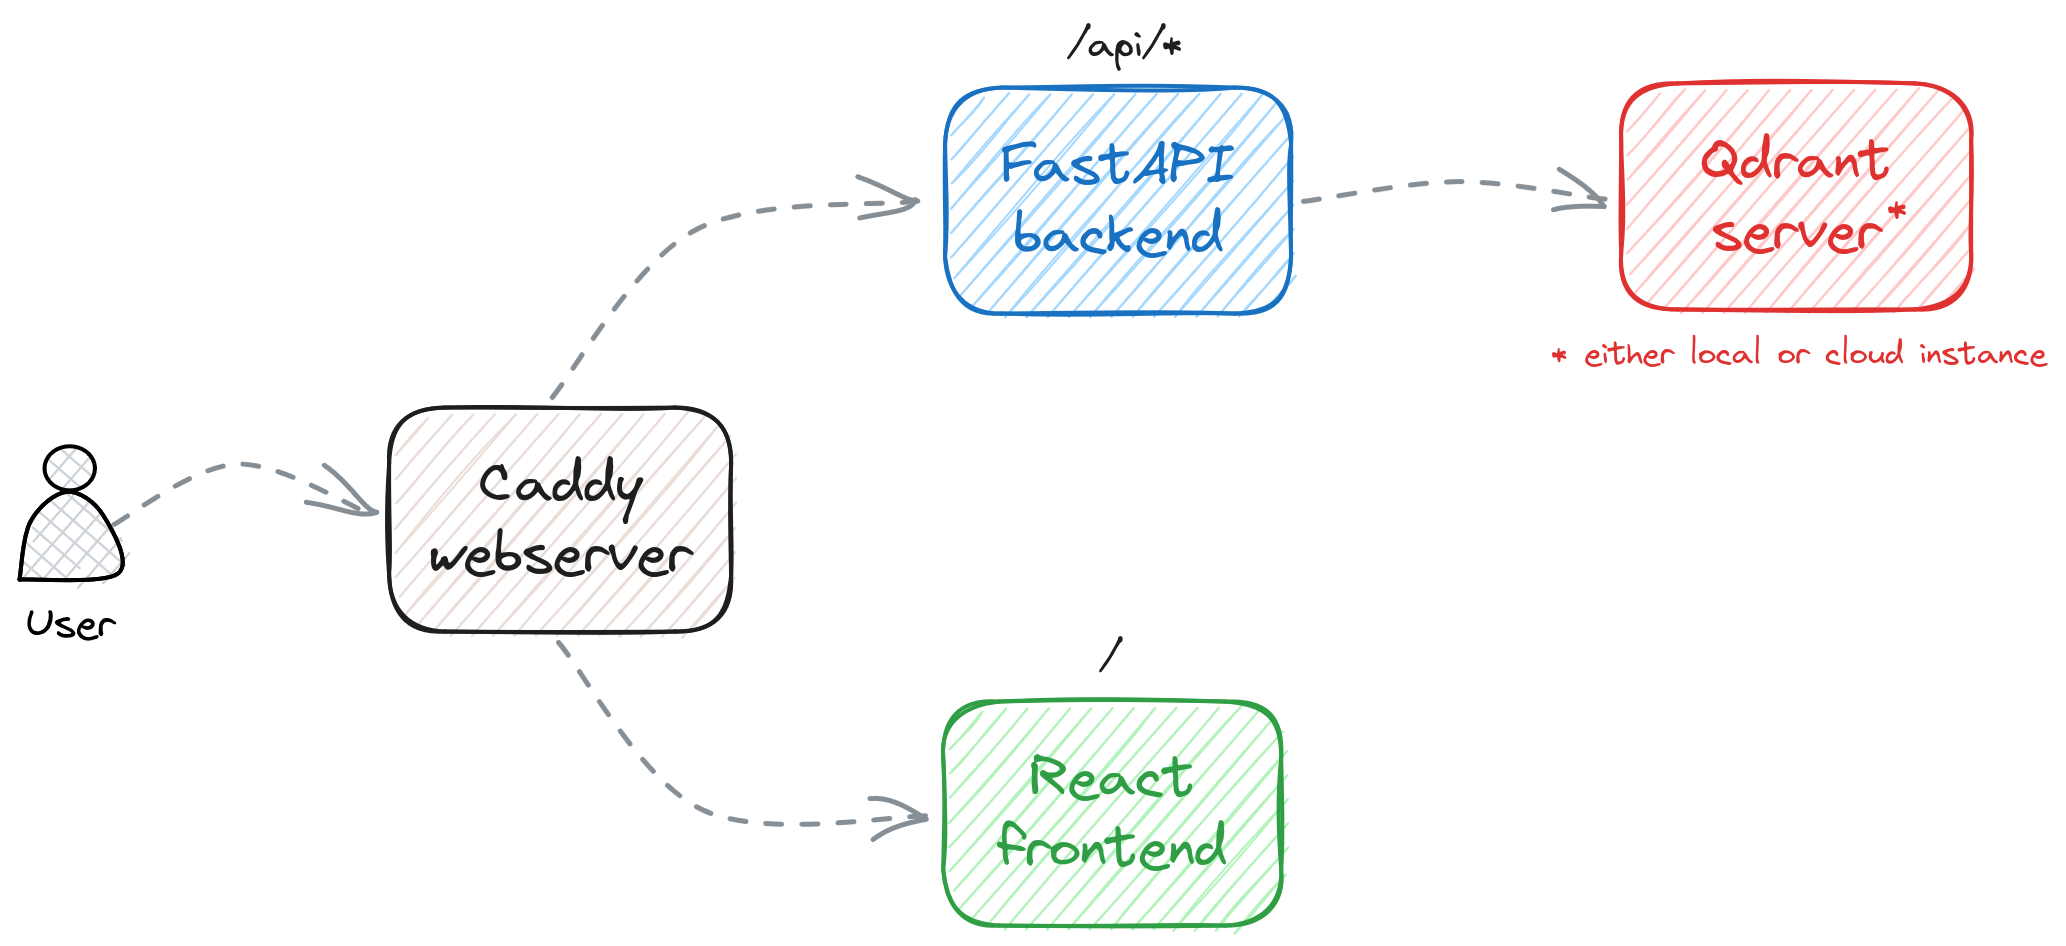
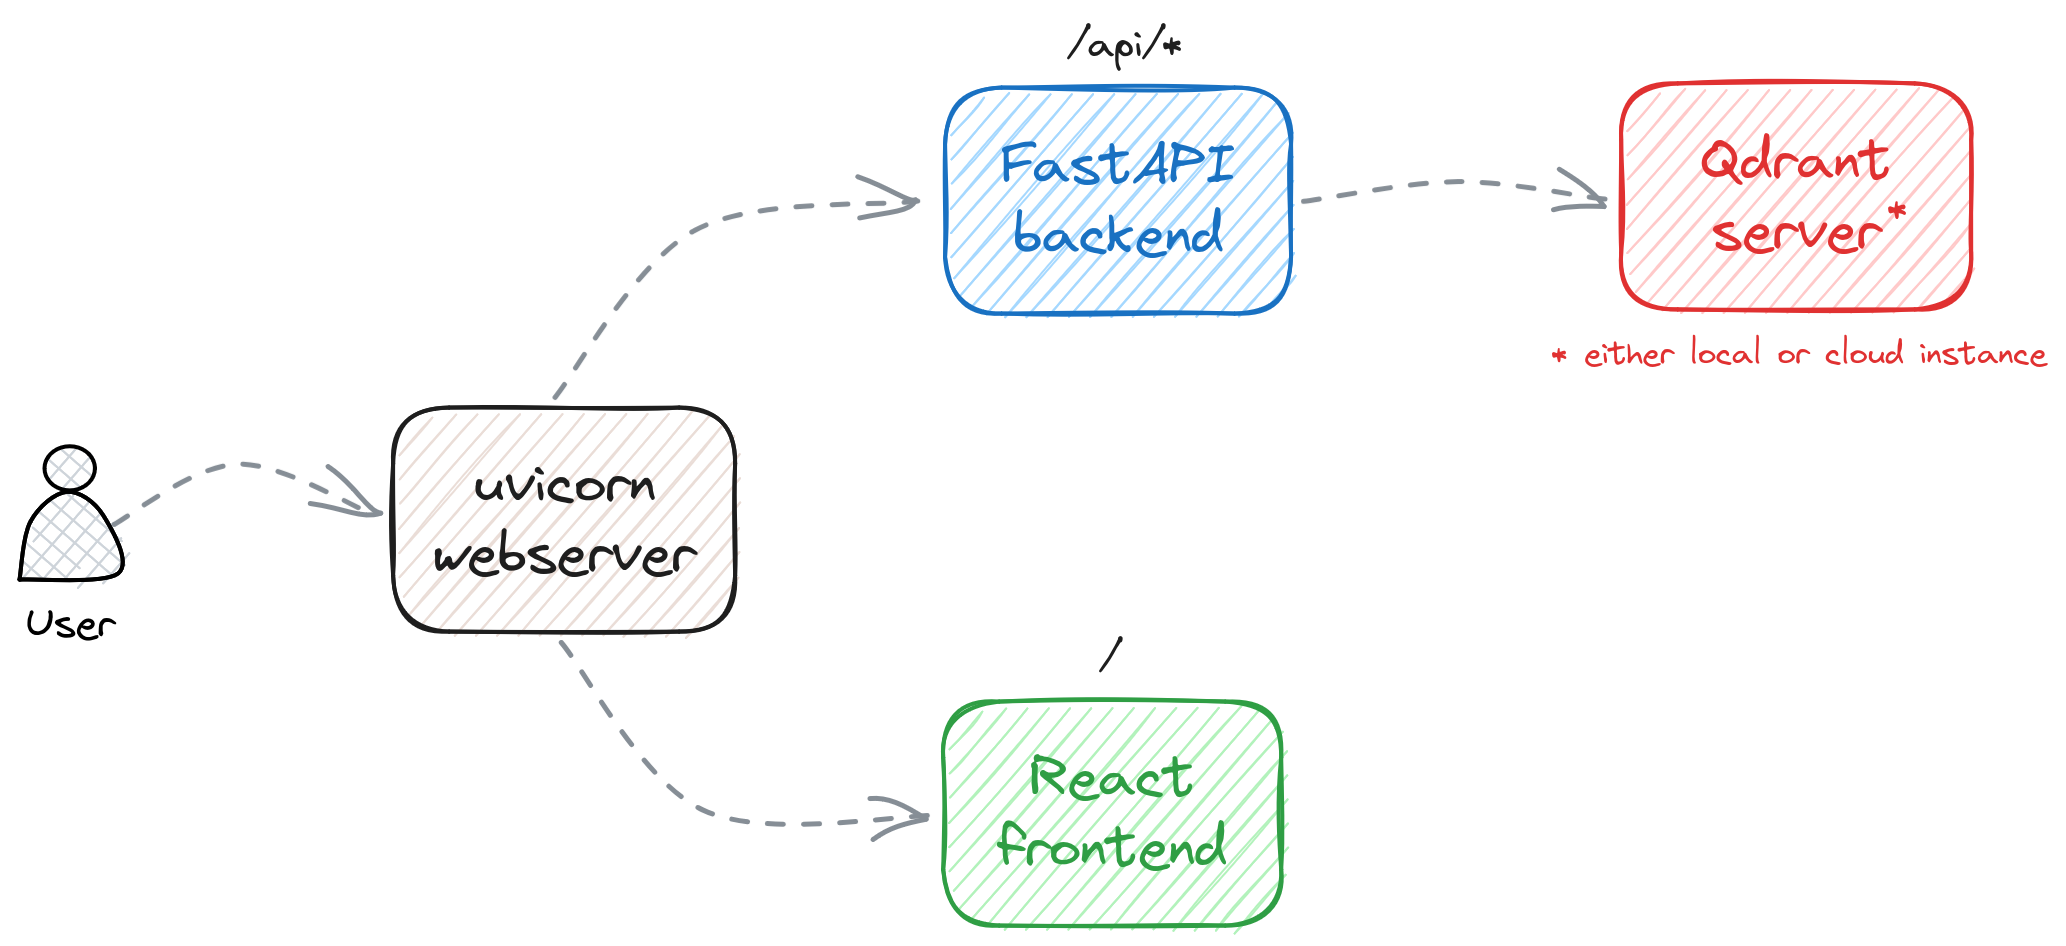
Add text search info and change architecture diagram

Changed region(s): [[0.1549, 0.4292, 0.3717, 0.6744]]

diff --git a/README.md b/README.md
@@ -25,10 +25,14 @@ is used internally to find some other items that are visually similar to the lik
 and dissimilar to the disliked ones. All the components are enclosed in Docker Compose
 and can be run with a single command.
 
-Proposed mechanism is embedding-agnostic, so it can be used with any image embeddings.
-We do not vectorize queries during the search, but rather use the same embeddings that
-were used during the indexing. Thus, there is no vectorization overhead during the 
-search, what makes it very fast.
+On top of the positive and negative examples based search, you can also use a text query
+to filter the results based on the names of the dishes. The text query is vectorized
+with the same CLIP model and used in semantic search.
+
+Proposed mechanism is embedding-agnostic, so it can be used with any multimodal embeddings
+model. We only vectorize text queries during the search, but mostly use the same image 
+embeddings that were used during the indexing. Thus, there might no vectorization overhead 
+during the search, what makes it very fast.
 
 https://github.com/qdrant/demo-food-discovery/assets/2649301/fdee50db-67e4-408c-8252-9f505f45bb12
 
@@ -41,7 +45,9 @@ The demo consists of the following components:
 - [FastAPI backend](/backend) - a backend that communicates with Qdrant and exposes a REST API
 - [Qdrant](https://qdrant.tech/) - a vector search engine that stores the data and performs the search
 
-All the components come pre-configured and can be run with a single command. 
+All the components come pre-configured and can be run with a single command. The 
+[uvicorn](https://www.uvicorn.org/) webserver handles the communication between the
+user and the application.
 
 ## Usage
 
